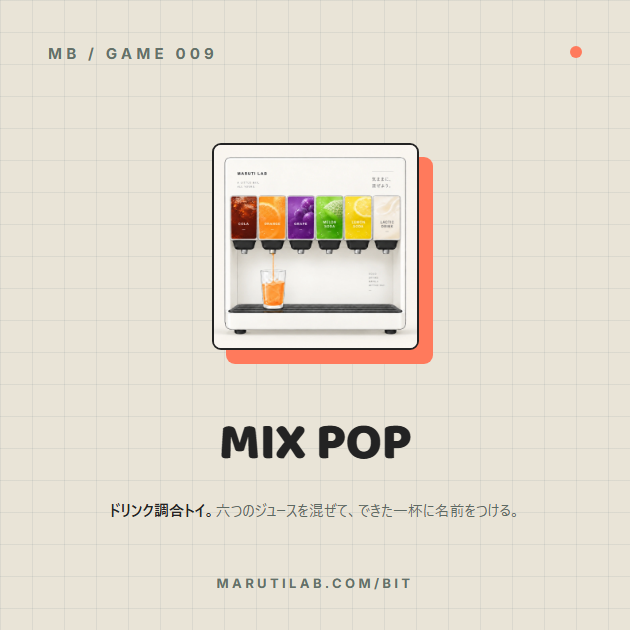
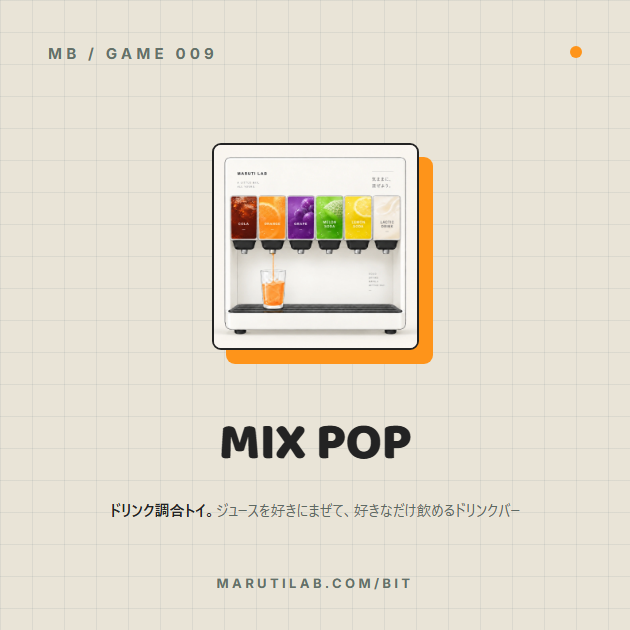
Give the ninth machine a colour of its own, and sharing two jobs
The shelf runs as a loop, so the ninth machine stands beside the first, and
mixpop in coral put two coral machines shoulder to shoulder with ANGLE. It
takes a seventh colour rather than one of the six: orange, the juice the
machine is pouring in its own artwork. Coral beside it is a redder thing.
NEW moves here from NEON BREAK, and the big number on a how-to card now
wears the game's colour instead of coral on all nine.

The two buttons at the foot were sharing the drink, greyed out until there
was one - which made them look like the game's own share waiting its turn.
They are the game's own share now, the same pair the rest of the series
ends on, always live. The drink goes out from the card that names it.

And it goes out as a picture or not at all. X's composer takes text and a
link and nothing else, so the button that went there saved the PNG to your
downloads and asked you to attach it by hand; that button is gone, and so
is the code that did the saving. What is left hands the file to the share
sheet, and shows itself only where there is a sheet to hand it to. Every
way out of here now carries the address of the page, which none of them
did - the card posted a recipe nobody could trace back to the machine.

The OG card says what the band says.

Changed region(s): [[0.181, 0.7841, 0.8143, 0.8444], [0.3619, 0.2413, 0.6937, 0.6032], [0.9048, 0.0603, 0.9349, 0.0905]]

diff --git a/app/bit/MixPopGame.tsx b/app/bit/MixPopGame.tsx
@@ -4,7 +4,9 @@ import { useCallback, useEffect, useLayoutEffect, useMemo, useRef, useState } fr
 import { createMixPopAudio, type MixPopAudio } from "./mixPopAudio";
 import { cardFile, drawMixPopCard } from "./mixPopCard";
 import { DRINKS, juice, nameMix, thinly } from "./mixPopNames";
+import { ShareButton } from "./shared/ShareButton";
 import { SoundMark } from "./shared/SoundMark";
+import { XShareButton } from "./shared/XShareButton";
 
 // Every MarutiBit game remembers the sound switch under the same key, so
 // turning it off in one turns it off in all of them.
@@ -12,6 +14,7 @@ const SOUND_STORAGE_KEY = "marutibit:sound-enabled";
 const CAP = 300;
 const POUR = 30;
 const ICE_MAX = 6;
+const HOME = "https://marutilab.com/bit/mixpop";
 // Where each cube sits and how it lies, fixed per cube so the ice does not
 // rearrange itself every render.
 const ICE_AT = [-34, 4, -12, 30, -24, 16];
@@ -39,14 +42,20 @@ const mix = (amounts: number[], pick: (i: number) => [number, number, number], f
   return [0, 1, 2].map((c) => Math.round(amounts.reduce((sum, ml, i) => sum + pick(i)[c] * ml, 0) / total)) as [number, number, number];
 };
 
-// The drawn icons from the prototype: a glass for drinking it and a tag for
-// naming it. Drawn here so they are the same line and the same size on every
-// machine. Sharing wears no mark - it borrows the series' plain lettered
-// buttons instead.
+// The drawn icons from the prototype: a glass for drinking it, a tag for
+// naming it, and a box-and-arrow for handing the card on. Drawn here so they
+// are the same line and the same size on every machine.
 const CupIcon = () => (
   <svg className="mpIco" viewBox="0 0 12 12" aria-hidden="true">
     <path d="M3.2 2.2h5.6l-.7 7.3a.9.9 0 0 1-.9.8H4.8a.9.9 0 0 1-.9-.8z" fill="none" stroke="currentColor" strokeWidth="1.1" strokeLinejoin="round" />
     <path d="M3.5 5.7h5" stroke="currentColor" strokeWidth="1.1" />
+  </svg>
+);
+const ShareIcon = () => (
+  <svg className="mpIco" viewBox="0 0 12 12" aria-hidden="true">
+    <path d="M6 1.4v6" fill="none" stroke="currentColor" strokeWidth="1.15" strokeLinecap="round" />
+    <path d="M3.7 3.5 6 1.3l2.3 2.2" fill="none" stroke="currentColor" strokeWidth="1.15" strokeLinecap="round" strokeLinejoin="round" />
+    <path d="M2.4 6.6v3.1c0 .4.3.7.7.7h5.8c.4 0 .7-.3.7-.7V6.6" fill="none" stroke="currentColor" strokeWidth="1.15" strokeLinecap="round" />
   </svg>
 );
 const TagIcon = () => (
@@ -347,40 +356,40 @@ export function MixPopGame() {
     return { picture: await cardFile(canvas), text: [named.name, ...named.rows, "", "#MIXPOP #MarutiBit"].join("\n") };
   }, [cubes, deep, fizz, named, thin, total]);
 
-  const keep = (picture: File, note: string) => {
-    const save = document.createElement("a");
-    save.href = URL.createObjectURL(picture);
-    save.download = "mixpop.png";
-    save.click();
-    window.setTimeout(() => URL.revokeObjectURL(save.href), 4000);
-    setMessage(note);
-  };
+  // Handing the card on means handing over a picture, and only a browser with
+  // a share sheet can do that. X's own composer cannot: its link carries text
+  // and nothing else, so the button that went there had to drop the PNG into
+  // your downloads folder and ask you to attach it yourself, which is not
+  // sharing, it is homework. Where there is no sheet the button is not there
+  // either, rather than quietly turning into a download.
+  const [canHandOver, setCanHandOver] = useState(false);
+  useEffect(() => {
+    // Off a tick, the way the sound switch reads its storage: the server has
+    // no navigator to ask, so this starts false and corrects itself.
+    let alive = true;
+    void (async () => {
+      await Promise.resolve();
+      if (!alive) return;
+      try {
+        if (navigator.canShare?.({ files: [new File([""], "x.png", { type: "image/png" })] })) setCanHandOver(true);
+      } catch {
+        /* A browser without canShare is a browser that cannot take the file. */
+      }
+    })();
+    return () => {
+      alive = false;
+    };
+  }, []);
 
   const share = useCallback(async () => {
     const made = await card();
     if (!made) return;
-    if (navigator.canShare?.({ files: [made.picture] })) {
-      try {
-        await navigator.share({ files: [made.picture], text: made.text });
-        return;
-      } catch (e) {
-        if ((e as Error).name === "AbortError") return;
-      }
+    try {
+      await navigator.share({ files: [made.picture], text: made.text, url: HOME });
+    } catch (e) {
+      if ((e as Error).name === "AbortError") return;
+      setMessage("この端末ではカードを渡せませんでした。");
     }
-    keep(made.picture, "カードを保存しました。");
-  }, [card]);
-
-  const shareX = useCallback(async () => {
-    const made = await card();
-    if (!made) return;
-    keep(made.picture, "カードを保存しました。Xの投稿画面で画像を添えてください。");
-    // An anchor rather than window.open with a feature string: passing
-    // features has twice sent the page we were on to the share URL.
-    const post = document.createElement("a");
-    post.href = `https://x.com/intent/post?text=${encodeURIComponent(made.text)}`;
-    post.target = "_blank";
-    post.rel = "noopener noreferrer";
-    post.click();
   }, [card]);
 
   const status = drinking ? "ごく、ごく。" : total === 0 ? "まだ、空っぽ。" : total === CAP ? "ちょうど、いっぱい。" : "いい感じ。その調子。";
@@ -542,18 +551,36 @@ export function MixPopGame() {
               {named.rows.map((row) => (
                 <p key={row}>{row}</p>
               ))}
+              {/* This pair hands on the drink: the card drawn from what is in
+                  the glass. The pair at the foot of the page hands on the toy
+                  itself, which is a different thing to give somebody. */}
+              {canHandOver && (
+                <div className="mpCardShare">
+                  <button type="button" className="mpBtn" onClick={share}>カードをシェア <ShareIcon /></button>
+                </div>
+              )}
             </div>
           </div>
         </section>
       )}
 
-      {/* Last of all, under everything including the card: sharing is what you
-          do after the glass is finished, and anywhere higher pushes the part
-          you came for down the page. It stays in place and greys out until
-          there is a drink with a name, so nothing shifts when one appears. */}
+      {/* The toy itself, not the drink. Every other game in the series ends
+          on this pair and it means the same thing here: a link to the page,
+          for somebody who has not seen it. The drink you made goes out from
+          the card above, which is a different button doing a different job -
+          it was greyed out until there was a drink, which made it look like
+          the same one waiting its turn. */}
       <div className="mpShareRow">
-        <button type="button" className="mpShareBtn" onClick={share} disabled={!named}>SHARE</button>
-        <button type="button" className="mpShareBtn" onClick={shareX} disabled={!named}>X SHARE</button>
+        <ShareButton
+          title="MarutiBit「MIX POP」"
+          text="ジュースを好きにまぜて、好きなだけ飲めるドリンクバー"
+          url={HOME}
+        />
+        <XShareButton
+          variant="compact"
+          text={"MarutiBit「MIX POP」\nジュースを好きにまぜて、好きなだけ飲めるドリンクバー"}
+          url={HOME}
+        />
       </div>
     </section>
   );

diff --git a/app/bit/games.ts b/app/bit/games.ts
@@ -1,10 +1,17 @@
 // Package colors are the Memphis Pastel Arcade accents (see
 // project_marutibit_toyshop_rebrand memory): coral #FF7A5C, teal #2BB3A3,
-// yellow #F4C430, blush #F2A0C1, periwinkle #7B8CDE, plum #6B3FA0. Seven
+// yellow #F4C430, blush #F2A0C1, periwinkle #7B8CDE, plum #6B3FA0, and now
+// orange #FE941A. Seven
 // games share six colors, so sequence and avenue repeat periwinkle - they
 // sit far apart in the grid (positions 3 and 7) so it doesn't read as a
 // clash. Repeats are fine and expected from here on - the catalog is meant to
-// keep growing well past the palette.
+// keep growing well past the palette. What is not fine is a repeat that lands
+// next to itself: the shelf runs as a loop, so the ninth machine stands
+// beside the first, and mixpop in coral put two coral machines shoulder to
+// shoulder with angle. It takes a seventh colour rather than one of the six:
+// orange #FE941A, which is the juice the machine is pouring in its own
+// artwork. Coral next to it is a redder thing, and the shelf has no other
+// orange to sit beside.
 export const bitGames = [
   { id: "angle", number: "001", name: "ANGLE", kana: "アングル", kind: "角度当てゲーム", href: "/bit/angle", description: "三角形を組み合わせ、示された角度から答えを導く。", featured: true, color: "#FF7A5C" },
   { id: "blank", number: "002", name: "BLANK", kana: "ブランク", kind: "空欄補完ゲーム", href: "/bit/blank", description: "四則演算の空欄に入る数字を逆算する。", featured: true, color: "#F4C430" },
@@ -13,8 +20,8 @@ export const bitGames = [
   { id: "paku", number: "005", name: "PAKU", kana: "パク", kind: "エサやりゲーム", href: "/bit/paku", description: "水槽の熱帯魚に、タップで餌をあげる。", featured: false, color: "#2BB3A3" },
   { id: "liltorb", number: "006", name: "LILT ORB", kana: "リルトオーブ", kind: "粒子操作トイ", href: "/bit/liltorb", description: "触れると粒子が集まる、癒しと刺激の球体トイ。", featured: false, color: "#F2A0C1" },
   { id: "avenue", number: "007", name: "AVENUE", kana: "アベニュー", kind: "ピクセルアート・アンビエント", href: "/bit/avenue", description: "1996年の雨の部屋で、偶然生まれる音を眺めて聴く。", featured: false, color: "#7B8CDE" },
-  { id: "neonbreak", number: "008", name: "NEON BREAK", kana: "ネオンブレイク", kind: "ナインボール", href: "/bit/neonbreak", description: "ネオンの台で9番を狙う、ナインボール。", featured: false, color: "#6B3FA0", tag: "NEW" },
-  { id: "mixpop", number: "009", name: "MIX POP", kana: "ミックスポップ", kind: "ドリンク調合トイ", href: "/bit/mixpop", description: "六つのジュースを混ぜて、できた一杯に名前をつける。", featured: false, color: "#FF7A5C" },
+  { id: "neonbreak", number: "008", name: "NEON BREAK", kana: "ネオンブレイク", kind: "ナインボール", href: "/bit/neonbreak", description: "ネオンの台で9番を狙う、ナインボール。", featured: false, color: "#6B3FA0" },
+  { id: "mixpop", number: "009", name: "MIX POP", kana: "ミックスポップ", kind: "ドリンク調合トイ", href: "/bit/mixpop", description: "六つのジュースを混ぜて、できた一杯に名前をつける。", featured: false, color: "#FE941A", tag: "NEW" },
 ] as const;
 
 // The home hero only teases a handful of games (not the whole, ever-growing

diff --git a/app/bit/mixPop.css b/app/bit/mixPop.css
@@ -453,24 +453,16 @@
   0%, 100% { transform: translateY(0) rotate(-0.6deg); }
   50% { transform: translateY(-3px) rotate(0.6deg); }
 }
-/* AVENUE's lettering on the full width of the card: a hairline box and eight
-   pixels of letterspaced caps, but halved across the card rather than shrunk
-   into a corner, so the foot of the toy has the same edges as everything
-   above it. No margin over them - the row closes the card off, and any air
-   there just left the buttons floating under the thing they belong to. */
+/* The series' own share pair, for the page rather than the drink: the same
+   two buttons AVENUE and PAKU wear, halved across the foot of the card so its
+   bottom edge lines up with everything above it. They bring their own hairline
+   box and lettered caps; only the size is ours. */
 .mpShareRow { display: grid; grid-template-columns: 1fr 1fr; gap: 10px; margin: 18px 0 0; }
-.mpShareBtn {
-  padding: 12px 10px;
-  border: 1px solid var(--mp-edge);
-  background: none;
-  color: var(--mp-quiet);
-  font: 700 8px/1 "Yu Gothic UI", sans-serif;
-  letter-spacing: 0.12em;
-  cursor: pointer;
-  transition: border-color 0.15s, color 0.15s;
-}
-.mpShareBtn:hover:not(:disabled), .mpShareBtn:focus-visible { border-color: #8f9a86; color: #3d453a; outline: 0; }
-.mpShareBtn:disabled { opacity: 0.38; cursor: default; }
+.mpShareRow > button { width: 100%; margin: 0; padding: 12px 10px; }
+
+/* And the drink's own pair, beside the recipe it came from. */
+.mpCardShare { display: flex; gap: 10px; flex-wrap: wrap; margin-top: 16px; }
+.mpCardShare .mpBtn { flex: 1 1 auto; min-width: 140px; }
 .mpRainbow {
   display: block;
   height: 2px;

diff --git a/app/globals.css b/app/globals.css
@@ -388,7 +388,7 @@ footer{padding-top:34px;padding-bottom:34px}
 .bitHowToPlayGrid{display:grid;grid-template-columns:repeat(3,1fr);gap:20px}
 .bitHowToPlayCard{position:relative;overflow:hidden;padding:18px 18px 16px;border:2.5px solid #232323;border-radius:9px;background:#f1eee5;box-shadow:5px 5px 0 #232323;transition:transform .15s ease,box-shadow .15s ease}
 .bitHowToPlayCard:hover,.bitHowToPlayCard:focus-within{transform:translate(-2px,-2px);box-shadow:7px 7px 0 #232323}
-.bitHowToPlayNum{position:absolute;z-index:0;top:-16px;right:-2px;font:800 68px/1 "Baloo 2","Arial Narrow",sans-serif;color:#FF7A5C;opacity:.15;pointer-events:none}
+.bitHowToPlayNum{position:absolute;z-index:0;top:-16px;right:-2px;font:800 68px/1 "Baloo 2","Arial Narrow",sans-serif;color:var(--pkg-color,#FF7A5C);opacity:.15;pointer-events:none}
 .bitHowToPlayHead{position:relative;z-index:1;display:flex;align-items:center;gap:8px;margin:0 0 12px}
 .bitHowToPlayIcon{display:inline-block;font-size:16px;line-height:1}
 .bitHowToPlayGrid>article:nth-of-type(1) .bitHowToPlayIcon{transform:rotate(-10deg)}

diff --git a/app/bit/mixpop/page.tsx b/app/bit/mixpop/page.tsx
@@ -36,7 +36,7 @@ export default function MixPopPage() {
           React hoists this into <head>, and it only loads on this route. */}
       {/* eslint-disable-next-line @next/next/no-page-custom-font */}
       <link rel="stylesheet" href="https://fonts.googleapis.com/css2?family=Poppins:wght@800&display=swap" />
-    <main className="bitPage bitPageMilk" style={{ "--pkg-color": "#FF7A5C" } as CSSProperties}>
+    <main className="bitPage bitPageMilk" style={{ "--pkg-color": "#FE941A" } as CSSProperties}>
       <BitHeader current="MIX POP" />
 
       <BitSeriesNav active="mixpop" />

diff --git a/app/og-preview/page.tsx b/app/og-preview/page.tsx
@@ -37,7 +37,7 @@ const copy: Record<string, Card> = {
   },
   mixpop: {
     lead: "ドリンク調合トイ。",
-    sub: "六つのジュースを混ぜて、できた一杯に名前をつける。",
+    sub: "ジュースを好きにまぜて、好きなだけ飲めるドリンクバー",
     art: "/bit/mixpop/machine.webp",
   },
   neonbreak: {
